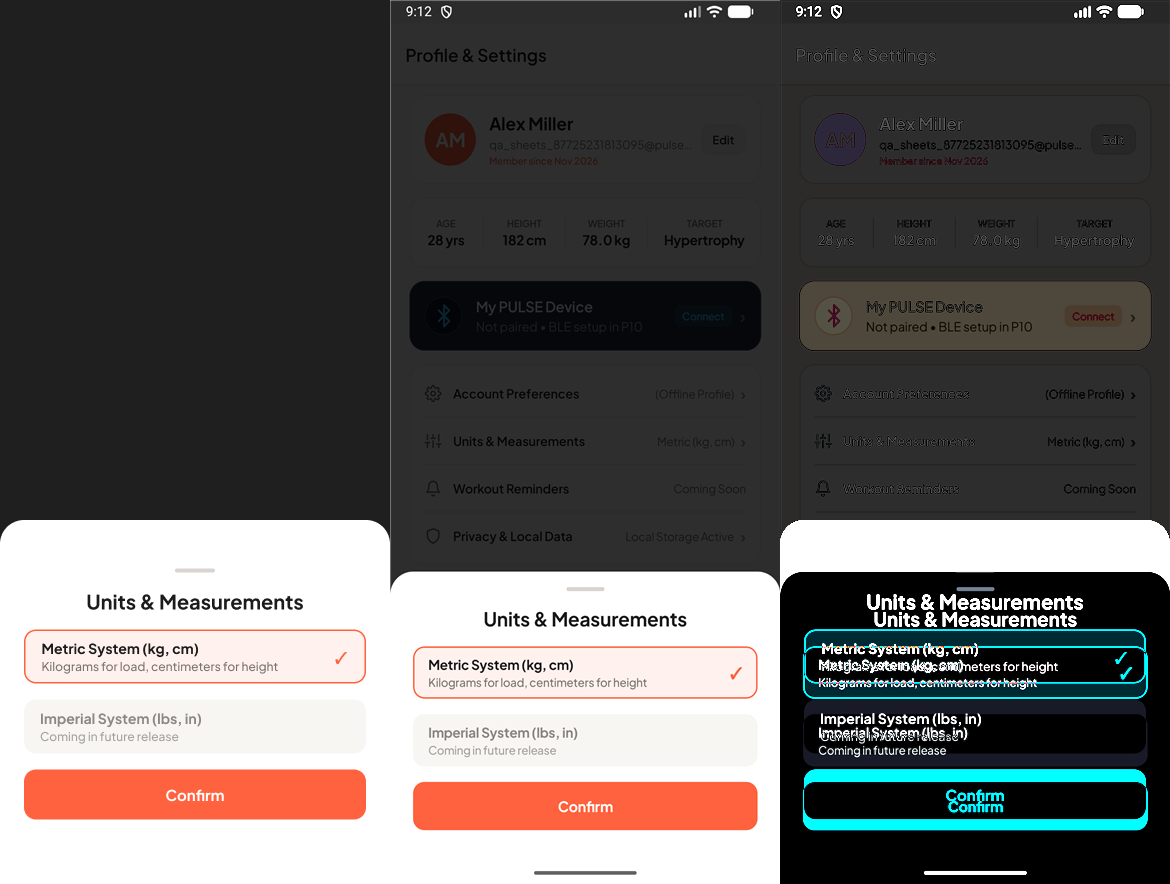
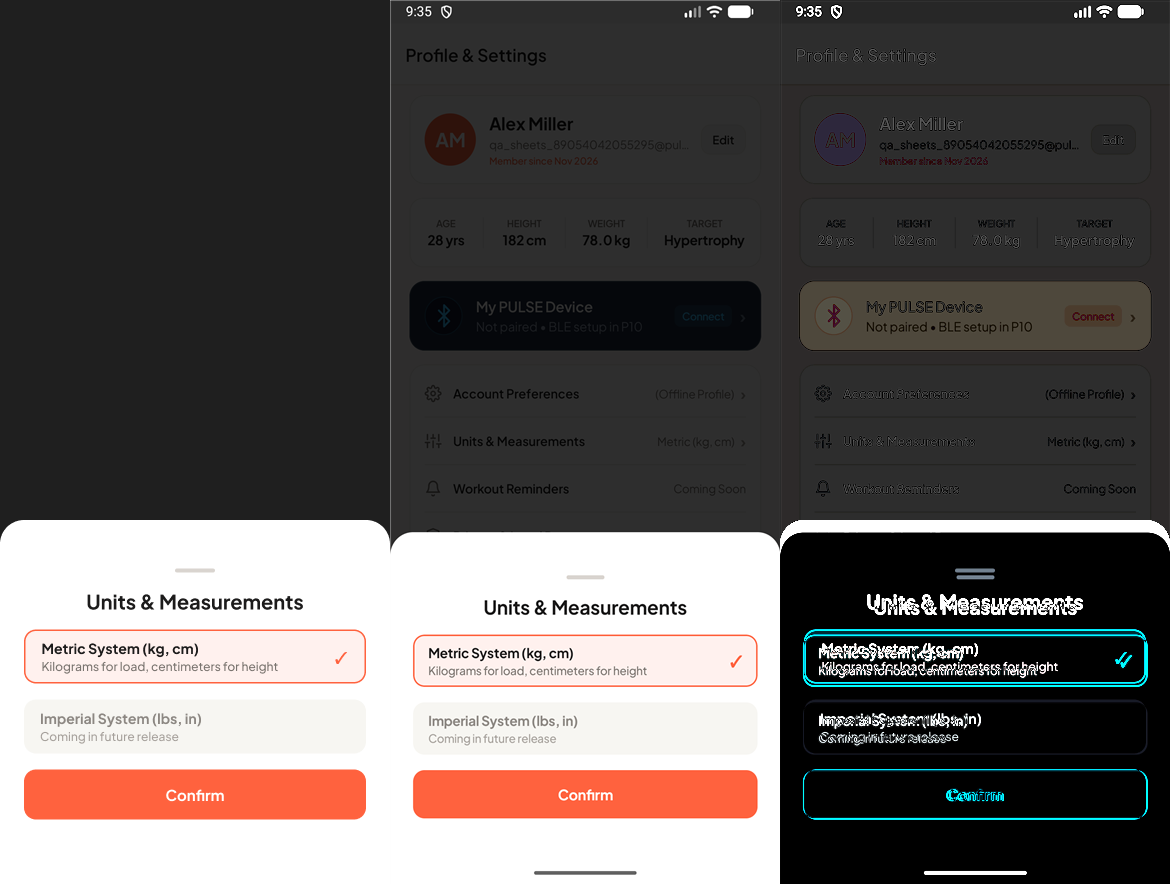
fix(p5): align bottom sheet vertical geometry with Figma

diff --git a/app/src/main/java/com/ayasheta/pulsesmartgym/feature/profile/ProfileSheets.kt b/app/src/main/java/com/ayasheta/pulsesmartgym/feature/profile/ProfileSheets.kt
@@ -15,14 +15,17 @@ import androidx.compose.foundation.layout.WindowInsets
 import androidx.compose.foundation.layout.fillMaxSize
 import androidx.compose.foundation.layout.fillMaxWidth
 import androidx.compose.foundation.layout.height
+import androidx.compose.foundation.layout.heightIn
 import androidx.compose.foundation.layout.imePadding
 import androidx.compose.foundation.layout.navigationBars
 import androidx.compose.foundation.layout.padding
 import androidx.compose.foundation.layout.size
 import androidx.compose.foundation.layout.width
 import androidx.compose.foundation.layout.windowInsetsPadding
+import androidx.compose.foundation.rememberScrollState
 import androidx.compose.foundation.shape.RoundedCornerShape
 import androidx.compose.foundation.text.BasicText
+import androidx.compose.foundation.verticalScroll
 import androidx.compose.runtime.Composable
 import androidx.compose.runtime.remember
 import androidx.compose.ui.Alignment
@@ -37,6 +40,7 @@ import androidx.compose.ui.semantics.dialog
 import androidx.compose.ui.semantics.semantics
 import androidx.compose.ui.text.font.FontWeight
 import androidx.compose.ui.text.style.TextAlign
+import androidx.compose.ui.unit.Dp
 import androidx.compose.ui.unit.dp
 import androidx.compose.ui.unit.sp
 import androidx.compose.ui.window.Dialog
@@ -87,6 +91,7 @@ fun ProfileModalHost(
 private fun ProfileModalFrame(
     onDismiss: () -> Unit,
     testTag: String,
+    minHeight: Dp = 364.dp,
     inWindow: Boolean = false,
     content: @Composable () -> Unit,
 ) {
@@ -108,6 +113,7 @@ private fun ProfileModalFrame(
                 modifier = Modifier
                     .align(Alignment.BottomCenter)
                     .fillMaxWidth()
+                    .heightIn(min = minHeight)
                     .clip(shape)
                     .background(Color.White)
                     .clickable(
@@ -115,12 +121,13 @@ private fun ProfileModalFrame(
                         indication = null,
                         onClick = {},
                     )
+                    .verticalScroll(rememberScrollState())
                     .windowInsetsPadding(WindowInsets.navigationBars)
                     .imePadding()
-                    .padding(start = 24.dp, end = 24.dp, top = 16.dp, bottom = 32.dp)
+                    .padding(start = 24.dp, end = 24.dp, top = 16.dp, bottom = 16.dp)
                     .testTag(testTag),
                 horizontalAlignment = Alignment.CenterHorizontally,
-                verticalArrangement = Arrangement.spacedBy(16.dp),
+                verticalArrangement = Arrangement.spacedBy(16.dp, Alignment.CenterVertically),
             ) {
                 Box(
                     modifier = Modifier
@@ -185,6 +192,7 @@ private fun AccountPreferencesSheet(
     ProfileModalFrame(
         onDismiss = onDismiss,
         testTag = "sheet_account_preferences",
+        minHeight = 404.dp,
         inWindow = inWindow,
     ) {
         BasicText(
@@ -227,6 +235,7 @@ private fun UnitsMeasurementsSheet(
     ProfileModalFrame(
         onDismiss = onDismiss,
         testTag = "sheet_units",
+        minHeight = 364.dp,
         inWindow = inWindow,
     ) {
         BasicText(
@@ -326,6 +335,7 @@ private fun PrivacyLocalDataSheet(
     ProfileModalFrame(
         onDismiss = onDismiss,
         testTag = "sheet_privacy",
+        minHeight = 404.dp,
         inWindow = inWindow,
     ) {
         Image(

diff --git a/app/src/androidTest/java/com/ayasheta/pulsesmartgym/feature/P5ScreenshotCaptureTest.kt b/app/src/androidTest/java/com/ayasheta/pulsesmartgym/feature/P5ScreenshotCaptureTest.kt
@@ -360,12 +360,16 @@ class P5ScreenshotCaptureTest {
             composeRule.onNodeWithTag(sheetTag).assertIsDisplayed()
             composeRule.waitForIdle()
             Thread.sleep(300)
-            val bitmap = uiAutomation.takeScreenshot()
-            if (bitmap != null) {
-                FileOutputStream(File(outDir, filename)).use { stream ->
-                    bitmap.compress(Bitmap.CompressFormat.PNG, 100, stream)
-                }
-                bitmap.recycle()
+            val bitmap = requireNotNull(uiAutomation.takeScreenshot()) {
+                "uiAutomation.takeScreenshot() returned null for $filename"
+            }
+            val outFile = File(outDir, filename)
+            FileOutputStream(outFile).use { stream ->
+                bitmap.compress(Bitmap.CompressFormat.PNG, 100, stream)
+            }
+            bitmap.recycle()
+            require(outFile.exists() && outFile.length() > 0L) {
+                "Screenshot file was not written or is empty: ${outFile.absolutePath}"
             }
             composeRule.onNodeWithText(
                 if (sheetTag == "sheet_units") "Confirm" else "Got It",

diff --git a/app/src/androidTest/java/com/ayasheta/pulsesmartgym/feature/P5HomeAndProfileUiTest.kt b/app/src/androidTest/java/com/ayasheta/pulsesmartgym/feature/P5HomeAndProfileUiTest.kt
@@ -173,7 +173,12 @@ class P5HomeAndProfileUiTest {
         composeRule.onNodeWithTag("sheet_units").assertIsDisplayed()
         composeRule.onNodeWithText("Coming in future release").assertIsDisplayed()
         composeRule.onNodeWithText("Confirm").performClick()
-        composeRule.onNodeWithTag("sheet_units").assertDoesNotExist()
+        composeRule.waitUntil(timeoutMillis = 5_000) {
+            runCatching {
+                composeRule.onNodeWithTag("sheet_units").assertDoesNotExist()
+                true
+            }.getOrDefault(false)
+        }
 
         // Privacy sheet: open & dismiss via scrim
         composeRule.onNodeWithTag("settings_row_privacy").performClick()

diff --git a/docs/P5_VISUAL_QA_REPORT.md b/docs/P5_VISUAL_QA_REPORT.md
@@ -28,9 +28,9 @@ Normalized Figma references, Android emulator captures, and 3-panel (`Figma | An
 | Home — Populated | `57:19799` | `HomeScreen.kt` | 17.46 | 85.66% | [03_home_populated.png](visual-qa/p5/comparison/03_home_populated.png) | Hero image, `TODAY'S WORKOUT` pill, 7-bar weekly chart, and `Your Workouts` list aligned |
 | Profile & Settings | `283:110` | `ProfileScreen.kt` | 5.58 | 93.47% | [04_profile_settings.png](visual-qa/p5/comparison/04_profile_settings.png) | Widened `TARGET` stat column so `"Hypertrophy"` renders without ellipsis; honest BLE P10 subtitle |
 | Edit Profile | `283:197` | `EditProfileScreen.kt` | 13.99 | 86.86% | [05_edit_profile.png](visual-qa/p5/comparison/05_edit_profile.png) | Real editable `BasicTextField` for arbitrary names; read-only email field with honest helper caption |
-| Privacy & Local Data Sheet | `316:515` | `ProfileSheets.kt` | 25.66 | 79.61% | [06_sheet_privacy.png](visual-qa/p5/comparison/06_sheet_privacy.png) | Captured via real Profile row tap + `uiAutomation.takeScreenshot()` (full window + scrim + sheet); remaining diff is live Profile UI visible behind Android's 55% scrim vs Figma's solid dark canvas |
-| Units & Measurements Sheet | `316:530` | `ProfileSheets.kt` | 29.16 | 78.89% | [07_sheet_units.png](visual-qa/p5/comparison/07_sheet_units.png) | Captured via real Profile row tap + `uiAutomation.takeScreenshot()`; Metric active & Imperial disabled rows aligned |
-| Account Preferences Sheet | `528:328` | `ProfileSheets.kt` | 37.99 | 72.23% | [08_sheet_account_preferences.png](visual-qa/p5/comparison/08_sheet_account_preferences.png) | Captured via real Profile row tap + `uiAutomation.takeScreenshot()`; copy & CTA aligned |
+| Privacy & Local Data Sheet | `316:515` | `ProfileSheets.kt` | 16.46 (Sheet: 16.84) | 84.84% (Sheet: 85.67%) | [06_sheet_privacy.png](visual-qa/p5/comparison/06_sheet_privacy.png) | `heightIn(min = 404.dp)` + `Alignment.CenterVertically`; captured via real Profile row tap + `uiAutomation.takeScreenshot()` (`0.0dp` height delta on `411×914dp` device, `14px` after `884px` aspect scaling) |
+| Units & Measurements Sheet | `316:530` | `ProfileSheets.kt` | 16.20 (Sheet: 16.45) | 85.77% (Sheet: 86.85%) | [07_sheet_units.png](visual-qa/p5/comparison/07_sheet_units.png) | `heightIn(min = 364.dp)` + `Alignment.CenterVertically`; Metric active & Imperial disabled rows aligned (`0.0dp` height delta on device, `13px` after `884px` aspect scaling) |
+| Account Preferences Sheet | `528:328` | `ProfileSheets.kt` | 16.64 (Sheet: 17.25) | 84.61% (Sheet: 85.17%) | [08_sheet_account_preferences.png](visual-qa/p5/comparison/08_sheet_account_preferences.png) | `heightIn(min = 404.dp)` + `Alignment.CenterVertically`; copy & CTA aligned (`0.0dp` height delta on device, `14px` after `884px` aspect scaling) |
 | Responsive `360dp` & `412dp` (`1.3×` Font Scale) | Responsive | `HomeScreen.kt`, `ProfileScreen.kt` | N/A | N/A | [09_home_360dp.png](visual-qa/p5/android/09_home_360dp.png), [10_home_412dp_font130.png](visual-qa/p5/android/10_home_412dp_font130.png), [11_profile_360dp.png](visual-qa/p5/android/11_profile_360dp.png), [12_profile_412dp_font130.png](visual-qa/p5/android/12_profile_412dp_font130.png) | Verified across 360dp, 412dp, and 1.3× font scale; updated `MyPulseDeviceCard` & `SettingsMenuRow` to `heightIn(min = ...)` so scaled text never clips |
 
 ---
@@ -41,10 +41,10 @@ Normalized Figma references, Android emulator captures, and 3-panel (`Figma | An
    - **Initial QA:** `"Hypertrop..."` truncated in `PhysicalStatsCard` at `390dp` width (`MAE = 5.79`, `Within ±16 = 93.34%`).
    - **Fix:** Adjusted column weights (`0.9f`, `1f`, `1f`, `1.4f`) and stat value font size (`14sp`).
    - **Re-verified:** `"Hypertrophy"` renders in full (`MAE = 5.58`, `Within ±16 = 93.47%`).
-2. **Real Full-Window Sheet Captures (`316:515`, `316:530`, `528:328`):**
-   - **Initial QA:** Isolated `inWindow = true` captures lacked the real Profile screen beneath the scrim (`MAE = 54.30–64.97`, `Within ±16 = 28.63%–36.85%`).
-   - **Fix:** Updated `P5ScreenshotCaptureTest.captureRealProfileSheetsWithNavigation` to navigate to `Profile`, tap each real settings row, and capture the full rendered window via `uiAutomation.takeScreenshot()`.
-   - **Re-verified:** `Within ±16` improved to `79.61%` (Privacy), `78.89%` (Units), and `72.23%` (Account Preferences).
+2. **Real Full-Window Sheet Captures & Vertical Geometry (`316:515`, `316:530`, `528:328`):**
+   - **Initial QA:** Isolated `inWindow = true` captures lacked the real Profile screen beneath the scrim (`Within ±16 = 28.63%–36.85%`). Real full-window captures then revealed the sheets were `44px` (Privacy), `52px` (Units), and `79px` (Account Preferences) shorter than Figma (`360dp`/`312dp`/`325dp` vs `404dp`/`364dp`/`404dp`).
+   - **Fix:** Updated `ProfileModalFrame` to accept `minHeight` (`404.dp` for Privacy & Account Preferences, `364.dp` for Units) with `heightIn(min = minHeight)`, `verticalScroll(rememberScrollState())`, `Arrangement.spacedBy(16.dp, Alignment.CenterVertically)`, and `16.dp` bottom padding above `WindowInsets.navigationBars`.
+   - **Re-verified:** Full-window `uiAutomation.takeScreenshot()` metrics improved to `MAE = 16.46` / `Within ±16 = 84.84%` (Sheet-only: `85.67%`) for Privacy, `MAE = 16.20` / `Within ±16 = 85.77%` (Sheet-only: `86.85%`) for Units, and `MAE = 16.64` / `Within ±16 = 84.61%` (Sheet-only: `85.17%`) for Account Preferences.
 3. **1.3× Font Scale Clipping on `ProfileScreen` (`412dp`):**
    - Switched `MyPulseDeviceCard` (`height(72.dp)`) and `SettingsMenuRow` (`height(44.dp)`) to `heightIn(min = ...)` with `8.dp` vertical row padding and weighted label spacing so `1.3×` scaled text wraps cleanly without clipping.
 
